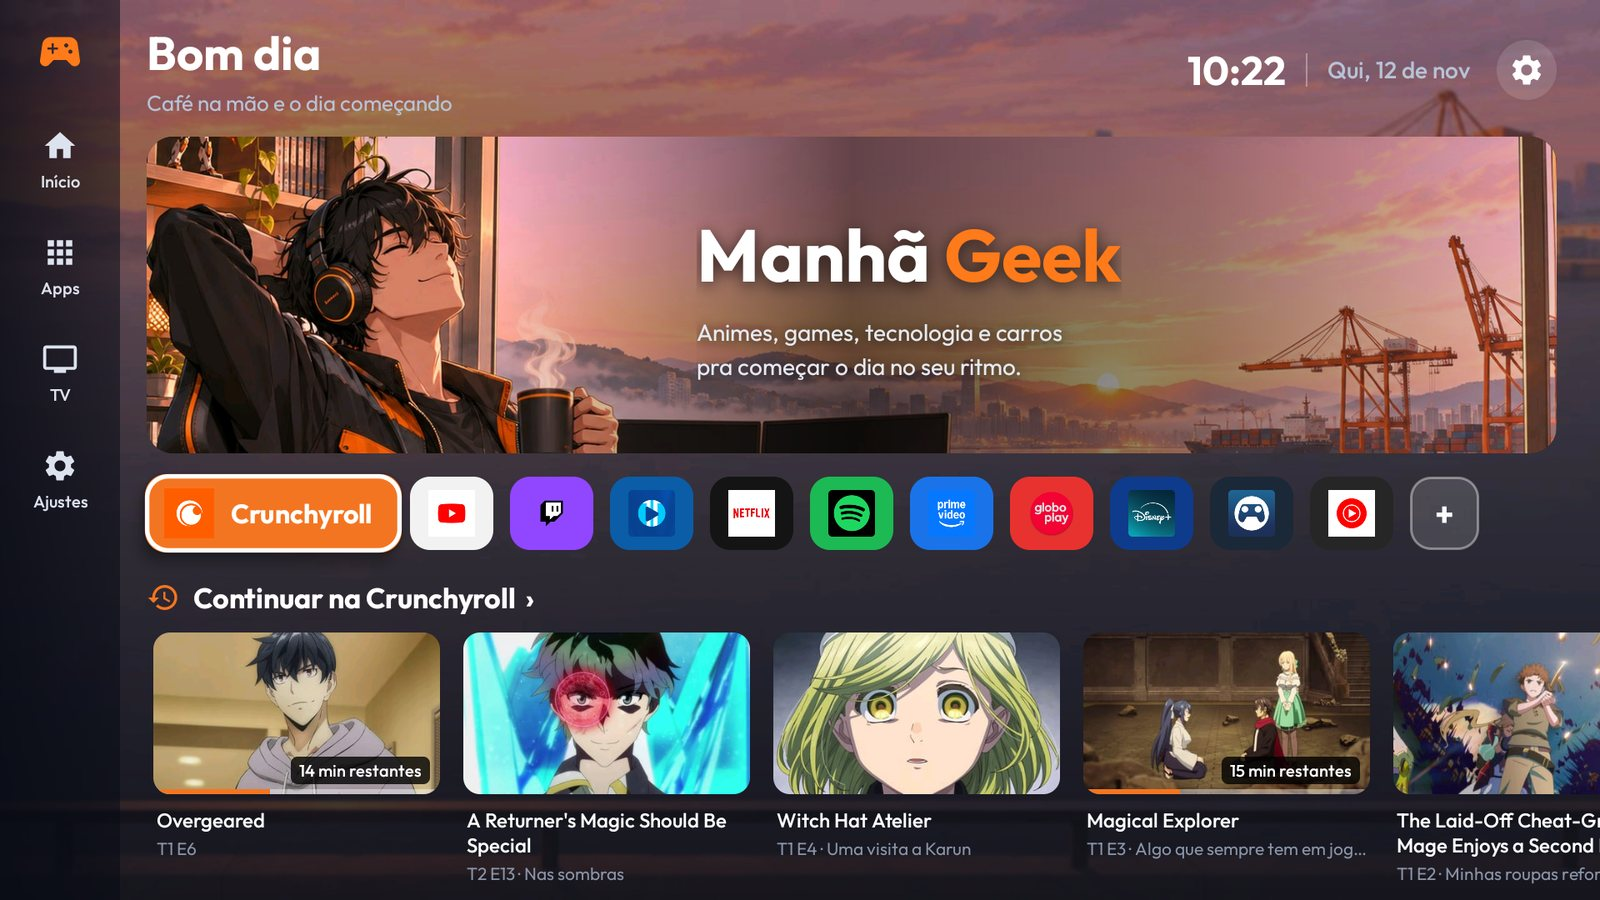
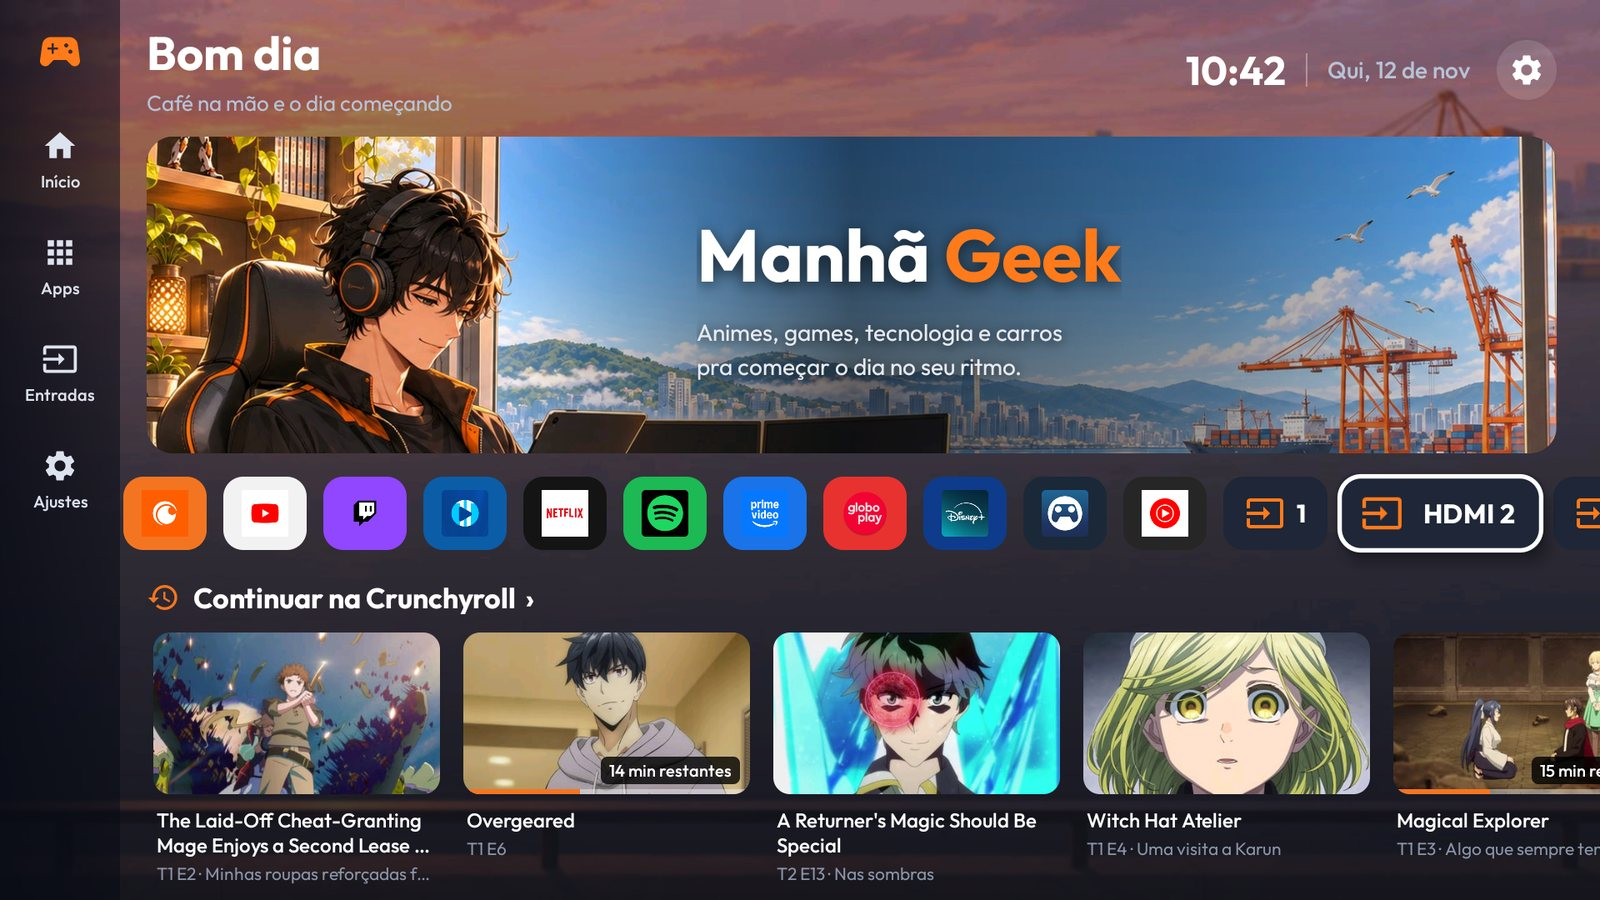
README: Entradas (HDMI e antena), última entrada e HDMI-CEC; fotos novas

diff --git a/README.md b/README.md
@@ -59,6 +59,23 @@
       Um servidorzinho em Python no seu PC lê as contas e entrega uma lista pronta, só pra rede de casa, com token.
     </td>
   </tr>
+  <tr>
+    <td valign="top">
+      <img src="docs/icons/tv.svg" width="28" alt=""><br>
+      <b>Entradas HDMI e antena</b><br>
+      Botão <b>Entradas</b> no menu lateral e as portas HDMI nos atalhos, com o número da porta. Usa o nome que você deu na TV.
+    </td>
+    <td valign="top">
+      <img src="docs/icons/baixar.svg" width="28" alt=""><br>
+      <b>Volta pro videogame</b><br>
+      A última entrada usada fica no topo do painel, e segurar OK em <b>Entradas</b> volta direto pra ela.
+    </td>
+    <td valign="top">
+      <img src="docs/icons/comando.svg" width="28" alt=""><br>
+      <b>HDMI-CEC</b><br>
+      Quando a TV reconhece o aparelho, aparece o nome dele ("HDMI 1 · PlayStation 5"). Com o CEC ligado (T-Link na TCL), trocar de entrada acorda o aparelho e o controle passa a comandá-lo.
+    </td>
+  </tr>
 </table>
 
 ## Telas
@@ -71,6 +88,9 @@
   <tr>
     <td><img src="docs/img/animes.jpg" alt="Animes em alta"><br><sub><b>Em alta</b>: os animes mais populares do momento que estão na Crunchyroll, via AniList.</sub></td>
     <td><img src="docs/img/apps.jpg" alt="Todos os apps"><br><sub><b>Apps</b>: todos os apps da TV com os banners oficiais; o “+” abre esta tela pra escolher.</sub></td>
+  </tr>
+  <tr>
+    <td colspan="2" align="center"><img src="docs/img/entradas.jpg" alt="Painel de entradas" width="70%"><br><sub><b>Entradas</b>: antena e HDMIs, com a última usada no topo. Segure OK numa entrada pra pôr ou tirar dos atalhos.</sub></td>
   </tr>
 </table>
 
@@ -105,6 +125,8 @@ flowchart LR
 - O **PC** atualiza as listas a cada 40 minutos e guarda a última que deu certo. Se um cookie vencer, a fileira continua com a lista anterior em vez de sumir.
 - A **TV** só baixa um JSON pequeno e as miniaturas (que ficam em cache). Sem o PC ligado, ela mostra a última lista que recebeu.
 - Nenhuma senha passa pela TV: as contas ficam no PC, em arquivos de cookies que não vão pro git.
+- Parada na tela inicial, a TV confere a cada minuto se alguma lista venceu e só então baixa de novo.
+- **Entradas:** a lista vem da própria TV (`TvInputManager`) e a troca é o pedido padrão do Android (abrir o endereço da entrada como canal), que na TCL quem atende é o app de TV dela. Testado na TCL: Antena, HDMI 1, 2 e 3.
 
 ## Antes: limpar a TV com o CleanYourTV
 
@@ -179,6 +201,12 @@ Faça como o CleanYourTV manda, nesta ordem (o `tools/disable.sh` dele tem as tr
 | **Segurar OK** num atalho | menu: mover, remover, adicionar outro, voltar ao padrão |
 | **◀ ▶** depois de “Mover” | leva o atalho pro lado; **OK** solta |
 | **Segurar OK** num app (tela Apps) | coloca ele nos atalhos |
+| **OK** em **Entradas** (menu lateral) | painel com antena e HDMIs |
+| **Segurar OK** em **Entradas** | volta direto pra última entrada usada |
+| **Segurar OK** numa entrada do painel | põe ou tira ela dos atalhos |
+
+> [!NOTE]
+> Comandos HDMI-CEC próprios (ligar ou desligar um aparelho, por exemplo) o Android só deixa pra apps do sistema. O Noite Geek troca de entrada do jeito padrão, e a TV cuida do CEC sozinha.
 | **Home** ou **Voltar** | volta pro topo |
 | **Menu** | abre as Configurações da TV |
 
